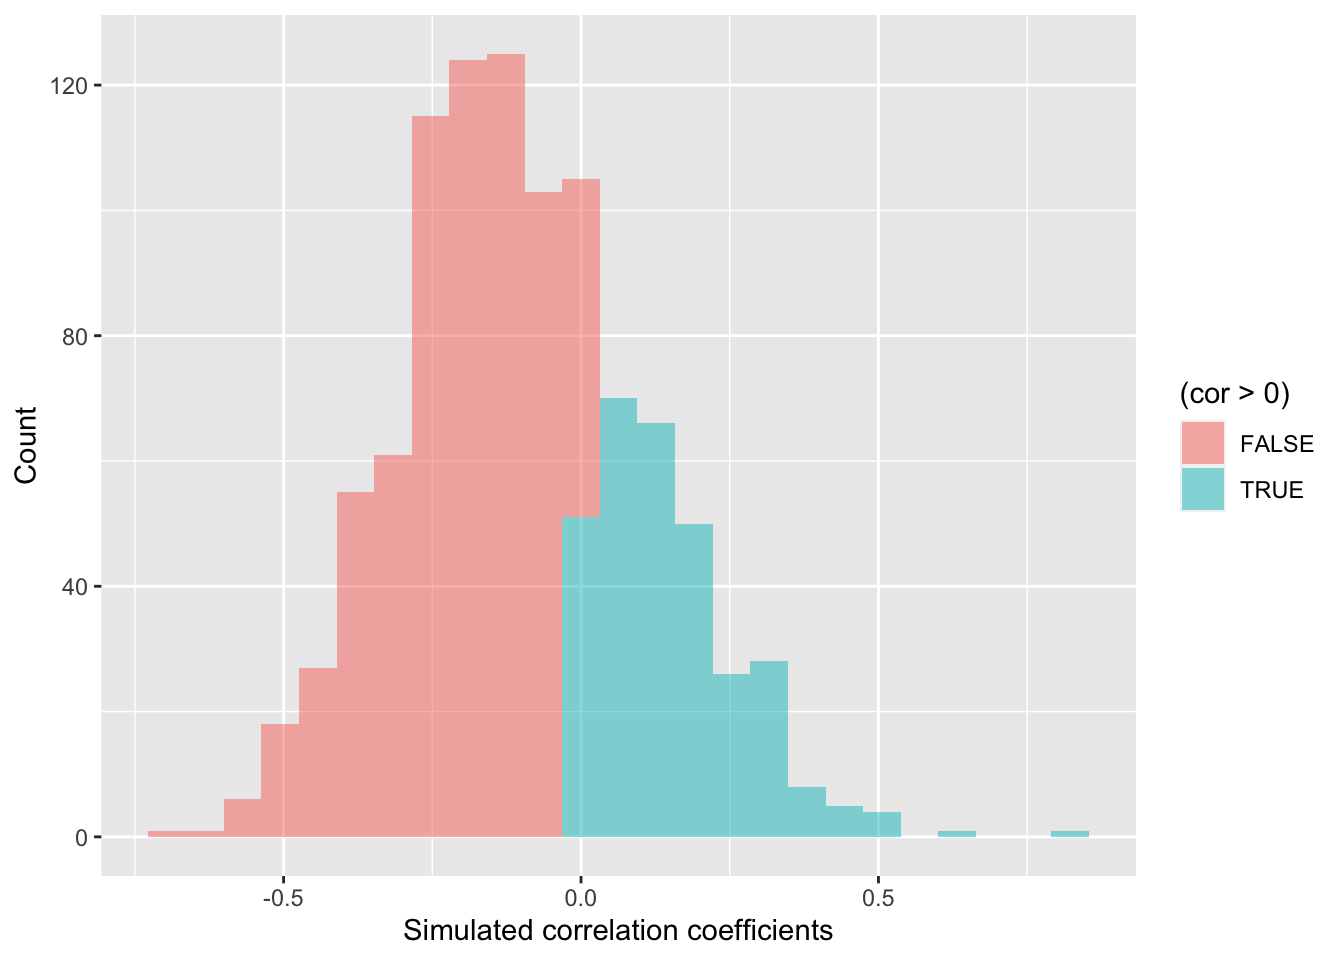
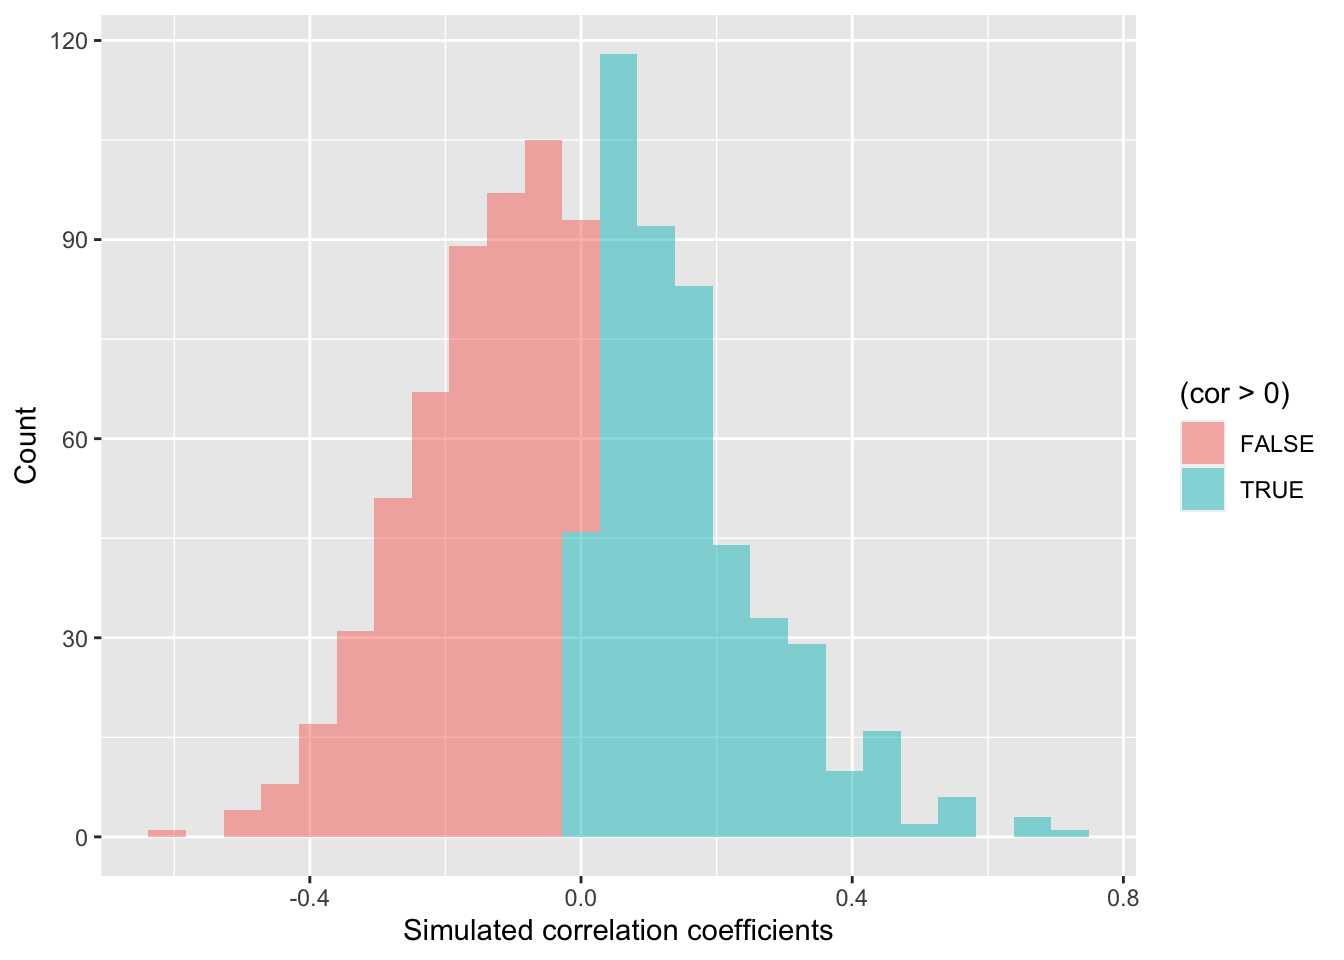
fixing soil lab calcs

diff --git a/docs/soil.html b/docs/soil.html
@@ -9,12 +9,12 @@
 <meta http-equiv="X-UA-Compatible" content="IE=EDGE" />
 
 
+<meta name="author" content="" />
 
-<meta name="date" content="2021-10-26" />
+<meta name="date" content="2021-10-27" />
 
 <title>Soil science analyses</title>
 
-<script src="site_libs/header-attrs-2.9/header-attrs.js"></script>
 <script src="site_libs/jquery-1.11.3/jquery.min.js"></script>
 <meta name="viewport" content="width=device-width, initial-scale=1" />
 <link href="site_libs/bootstrap-3.3.5/css/flatly.min.css" rel="stylesheet" />
@@ -311,15 +311,14 @@ $(document).ready(function () {
 
 
 <h1 class="title toc-ignore">Soil science analyses</h1>
-<h4 class="author"></h4>
-<h4 class="date">2021-10-26</h4>
+<h4 class="date">2021-10-27</h4>
 
 </div>
 
 
 <div id="overview" class="section level1">
 <h1>Overview</h1>
-<p>This page provides a demonstration on using <code>R</code> and shuffling our data to analyze your soil science hypotheses to generate figures and results for your poster presentation. You are welcome to either follow along with the text and copy-paste the code into the console <strong>or</strong> read through and then copy the whole script into a new <code>R</code> script in <a href="https://rstudio.cloud/spaces/170230">Rstudio.cloud</a>. <strong>Please make sure that you start a new project.</strong> Do <strong>not</strong> continue using the projects from the Air Quality Lab.</p>
+<p>This page provides a demonstration on using <code>R</code> and shuffling our data to analyze your soil science hypotheses to generate figures and results for your poster presentation. You are welcome to either follow along with the text and copy-paste the code into the console <strong>or</strong> read through and then copy the whole script into a new <code>R</code> script in <a href="https://rstudio.cloud/spaces/170230/project/3124212">Rstudio.cloud</a>. <strong>Please make sure that you start a new project using that link.</strong> Do <strong>not</strong> continue using the projects from the Air Quality Lab.</p>
 <p>This table below shows the hypotheses for each group:</p>
 <table>
 <colgroup>
@@ -410,7 +409,7 @@ soilDF &lt;- soilDF %&gt;% # take soilDF object and feed it into --&gt;
   mutate(SoilDensity = ( (ClodWeight1dip - (ClodNMinus1/NumAddedDips)) * (1 - (ClodWeightNdips-DriedWt)/ClodWeightNdips) - RockWeightG)/ClodVolumeInmL ) # create SoilDensity variable from columns in the data following Caspi et al. 2019
 
 soilDF &lt;- soilDF %&gt;%
-  mutate(soilC = SoilDensity * 10^6 * Cperc / 10^3) # create SoilDensity variable, which has these units: kg C/m3
+  mutate(soilC = SoilDensity * 10^5 * Cperc/100 * 1/10^3) # create SoilDensity variable, which has these units: kg C/m2 at a depth of 10cm
 
 ### Display data
 # View(soilDF) # open a spreadsheet viewer
@@ -425,11 +424,11 @@ soilDF &lt;- soilDF %&gt;%
 tapply(soilDF$SoilDensity, soilDF$PlantComm, summary) </code></pre>
 <pre><code>## $CHAP
 ##    Min. 1st Qu.  Median    Mean 3rd Qu.    Max. 
-##  0.4531  0.8578  1.0519  0.9525  1.1404  1.2285 
+##  0.4531  0.8578  0.9913  0.9292  1.1147  1.1691 
 ## 
 ## $CSS
-##    Min. 1st Qu.  Median    Mean 3rd Qu.    Max.    NA&#39;s 
-##  0.6542  0.9081  1.0767  1.0948  1.3602  1.4286       1</code></pre>
+##    Min. 1st Qu.  Median    Mean 3rd Qu.    Max. 
+##  0.5908  0.8984  1.0682  1.0580  1.3530  1.4286</code></pre>
 <pre class="r"><code>  # use PlantComm as the grouping variable
   # for SoilDensity and then summarize SoilDensity
   # for each PlantComm(unity)</code></pre>
@@ -470,12 +469,12 @@ gf_point(SoilDensity~Species,        # plot SoilDensity against plant Species
 <p>Let’s say I am interested in determining <code>if Coastal Sage Scrub (CSS) plants tend to have higher soil density than Chaparral (CHAP) plants</code>. This sounds like I want to see if there is a clear difference in the mean values of <code>SoilDensity</code> for the CSS plants versus the CHAP plants. We can start by calculating the mean difference we observe.</p>
 <pre class="r"><code>mean( SoilDensity ~ PlantComm, data = soilDF , na.rm=T) # show mean SoilDensity values for the plant communities and remove missing data</code></pre>
 <pre><code>##      CHAP       CSS 
-## 0.9525158 1.0947768</code></pre>
+## 0.9291509 1.0580391</code></pre>
 <pre class="r"><code>obs_diff &lt;- diff( mean( SoilDensity ~ PlantComm, data = soilDF , na.rm=T)) # calculate the difference between the means and store in a variable called &quot;obs_diff&quot;
 obs_diff # display the value of obs_diff</code></pre>
 <pre><code>##       CSS 
-## 0.1422611</code></pre>
-<p>OK, so the mean difference in mean soil density between CSS and CHAP is 0.14. Are the plant communities meaningfully different in terms of soil density though? Our null hypothesis would be that there is no difference in soil density between the plant communities.</p>
+## 0.1288881</code></pre>
+<p>OK, so the mean difference in mean soil density between CSS and CHAP is 0.13. Are the plant communities meaningfully different in terms of soil density though? Our null hypothesis would be that there is no difference in soil density between the plant communities.</p>
 <p>Logically, if there is a meaningful difference, then if we shuffle our data around, that should lead to different results than what we see. That is one way to <em>simulate</em> statistics to test the null hypothesis. And specifically, in this case, we would expect to see our observed difference is much larger than most of the simulated values.</p>
 <p>What does simulating our data look like?</p>
 <p>Well, here is what the data look like initially:</p>
@@ -483,48 +482,48 @@ obs_diff # display the value of obs_diff</code></pre>
 <pre><code>## # A tibble: 28 x 7
 ##    SampleID Species Group CSS   PlantComm SoilDensity soilC
 ##    &lt;chr&gt;    &lt;chr&gt;   &lt;dbl&gt; &lt;fct&gt; &lt;chr&gt;           &lt;dbl&gt; &lt;dbl&gt;
-##  1 Artcal1  Artcal      1 1     CSS             1.33  2197.
-##  2 Mallau1  Mallau      1 0     CHAP            1.08  2644.
-##  3 Salapi1  Salapi      1 1     CSS             1.39  2371.
-##  4 Samnig1  Samnig      1 0     CHAP            0.852  801.
-##  5 Artcal2  Artcal      2 1     CSS             0.946 7258.
-##  6 Mallau2  Mallau      2 0     CHAP            0.473 2054.
-##  7 Salapi2  Salapi      2 1     CSS             1.06  1876.
-##  8 Samnig2  Samnig      2 0     CHAP            1.16  2190.
-##  9 Artcal3  Artcal      3 1     CSS             0.694 1575.
-## 10 Mallau3  Mallau      3 0     CHAP            0.453 9470.
+##  1 Artcal1  Artcal      1 1     CSS             1.33  2.20 
+##  2 Mallau1  Mallau      1 0     CHAP            1.08  2.64 
+##  3 Salapi1  Salapi      1 1     CSS             1.39  2.37 
+##  4 Samnig1  Samnig      1 0     CHAP            0.852 0.801
+##  5 Artcal2  Artcal      2 1     CSS             0.946 7.26 
+##  6 Mallau2  Mallau      2 0     CHAP            0.473 2.05 
+##  7 Salapi2  Salapi      2 1     CSS             1.06  1.88 
+##  8 Samnig2  Samnig      2 0     CHAP            1.16  2.19 
+##  9 Artcal3  Artcal      3 1     CSS             0.691 1.57 
+## 10 Mallau3  Mallau      3 0     CHAP            0.453 9.47 
 ## # … with 18 more rows</code></pre>
 <p>Here is what it looks like after we’ve “shuffled” it once by randomizing the <code>PlantComm</code> assignments. This is like taking a deck of cards with different <code>SoilDensity</code> or <code>SoilC</code>(arbon) values, and being able to change their color and suite (in this case, plant community associated with that card).</p>
 <pre class="r"><code>resample(soilDF[,c(1:4,19:21)],groups=PlantComm,shuffled=c(&quot;SoilDensity&quot;,&quot;soilC&quot;))</code></pre>
 <pre><code>## # A tibble: 28 x 8
 ##    SampleID Species Group CSS   PlantComm SoilDensity soilC orig.id 
 ##    &lt;chr&gt;    &lt;chr&gt;   &lt;dbl&gt; &lt;fct&gt; &lt;chr&gt;           &lt;dbl&gt; &lt;dbl&gt; &lt;chr&gt;   
-##  1 Mallau3  Mallau      3 0     CHAP            0.453  801. 10.10.4 
-##  2 Samnig2  Samnig      2 0     CHAP            0.875 2644. 8.14.2  
-##  3 Mallau7  Mallau      7 0     CHAP            1.16  1992. 26.8.20 
-##  4 Mallau3  Mallau      3 0     CHAP            0.453 2512. 10.10.14
-##  5 Samnig5  Samnig      5 0     CHAP            1.13  2723. 20.26.24
-##  6 Mallau1  Mallau      1 0     CHAP            0.453 2512. 2.10.26 
-##  7 Mallau7  Mallau      7 0     CHAP            1.13  6636. 26.26.12
-##  8 Samnig1  Samnig      1 0     CHAP            0.852  554. 4.4.22  
-##  9 Samnig3  Samnig      3 0     CHAP            1.14  2644. 12.20.2 
-## 10 Mallau4  Mallau      4 0     CHAP            1.08  2512. 14.2.26 
+##  1 Mallau5  Mallau      5 0     CHAP            1.13  2.19  18.26.8 
+##  2 Mallau2  Mallau      2 0     CHAP            1.17  2.48  6.18.18 
+##  3 Samnig4  Samnig      4 0     CHAP            0.716 2.48  16.12.18
+##  4 Mallau1  Mallau      1 0     CHAP            1.08  6.64  2.2.12  
+##  5 Samnig2  Samnig      2 0     CHAP            1.16  9.47  8.8.10  
+##  6 Mallau7  Mallau      7 0     CHAP            0.453 2.47  26.10.16
+##  7 Mallau1  Mallau      1 0     CHAP            0.852 2.64  2.4.2   
+##  8 Samnig3  Samnig      3 0     CHAP            1.08  0.801 12.24.4 
+##  9 Samnig1  Samnig      1 0     CHAP            0.852 2.51  4.4.26  
+## 10 Samnig2  Samnig      2 0     CHAP            1.16  2.05  8.8.6   
 ## # … with 18 more rows</code></pre>
 <p>We can repeat that procedure again and see how the data shifts when we do another shuffle.</p>
 <pre class="r"><code>resample(soilDF[,c(1:4,19:21)],groups=PlantComm,shuffled=c(&quot;SoilDensity&quot;,&quot;soilC&quot;))</code></pre>
 <pre><code>## # A tibble: 28 x 8
 ##    SampleID Species Group CSS   PlantComm SoilDensity soilC orig.id 
 ##    &lt;chr&gt;    &lt;chr&gt;   &lt;dbl&gt; &lt;fct&gt; &lt;chr&gt;           &lt;dbl&gt; &lt;dbl&gt; &lt;chr&gt;   
-##  1 Mallau4  Mallau      4 0     CHAP            1.03  6636. 14.16.12
-##  2 Samnig1  Samnig      1 0     CHAP            1.14  2644. 4.20.2  
-##  3 Samnig6  Samnig      6 0     CHAP            1.17  2466. 24.18.16
-##  4 Mallau1  Mallau      1 0     CHAP            1.08  4582. 2.2.28  
-##  5 Mallau2  Mallau      2 0     CHAP            1.08  2644. 6.24.2  
-##  6 Mallau1  Mallau      1 0     CHAP            0.852 2054. 2.4.6   
-##  7 Samnig5  Samnig      5 0     CHAP            0.716 2512. 20.12.14
-##  8 Mallau1  Mallau      1 0     CHAP            0.473 2054. 2.6.6   
-##  9 Mallau5  Mallau      5 0     CHAP            1.08  2723. 18.2.24 
-## 10 Mallau2  Mallau      2 0     CHAP            1.08  2644. 6.2.2   
+##  1 Mallau1  Mallau      1 0     CHAP            1.03  2.05  2.16.6  
+##  2 Samnig6  Samnig      6 0     CHAP            0.716 2.05  24.12.6 
+##  3 Mallau5  Mallau      5 0     CHAP            0.852 0.801 18.4.4  
+##  4 Samnig5  Samnig      5 0     CHAP            0.716 2.64  20.12.2 
+##  5 Mallau2  Mallau      2 0     CHAP            1.14  1.99  6.20.20 
+##  6 Samnig3  Samnig      3 0     CHAP            1.08  2.51  12.2.14 
+##  7 Mallau2  Mallau      2 0     CHAP            1.08  2.72  6.24.24 
+##  8 Samnig7  Samnig      7 0     CHAP            0.901 2.48  28.28.18
+##  9 Mallau1  Mallau      1 0     CHAP            1.08  2.47  2.2.16  
+## 10 Mallau4  Mallau      4 0     CHAP            0.473 3.36  14.6.28 
 ## # … with 18 more rows</code></pre>
 <p>Let’s shuffle the data and see what that means for the distribution of mean <code>SoilDensity</code> differences between <code>CSS</code> and <code>CHAP</code>.</p>
 <pre class="r"><code>### Create random differences by shuffling the data
@@ -534,13 +533,13 @@ names(randomizing_diffs)[1] &lt;- &quot;DiffMeans&quot; # change the name of the
 
 # View first few rows of data
 head(randomizing_diffs)</code></pre>
-<pre><code>##     DiffMeans
-## 1 -0.01153524
-## 2  0.03609562
-## 3  0.09786906
-## 4  0.02516840
-## 5 -0.04835636
-## 6  0.01246625</code></pre>
+<pre><code>##      DiffMeans
+## 1  0.036459588
+## 2 -0.078961624
+## 3  0.008728901
+## 4 -0.031539682
+## 5 -0.081536007
+## 6 -0.086841344</code></pre>
 <p>Now we can visualize the distribution of simulated differences in mean soil density and our observed difference between CSS and CHAP.</p>
 <pre class="r"><code>gf_histogram(~ DiffMeans, fill = ~ (DiffMeans &gt;= obs_diff),
              data = randomizing_diffs,
@@ -551,7 +550,7 @@ head(randomizing_diffs)</code></pre>
 <pre class="r"><code># What proportion of simulated values were larger than our observed difference
 prop( ~ DiffMeans &gt;= 0.142, data = randomizing_diffs) # 0.142 was the observed difference value - see obs_diff</code></pre>
 <pre><code>## prop_TRUE 
-##      0.09</code></pre>
+##     0.078</code></pre>
 </div>
 <div id="calculating-correlation-coefficients" class="section level2">
 <h2>2: Calculating correlation coefficients</h2>
@@ -559,7 +558,7 @@ prop( ~ DiffMeans &gt;= 0.142, data = randomizing_diffs) # 0.142 was the observe
 <pre class="r"><code>### Calculate observed correlation
 obs_cor &lt;- cor(BacterialPerc ~ SoilDensity, data=soilDF, use=&quot;complete.obs&quot;) # store observed correlation in obs_cor of BacterialPerc vs. SoilDensity
 obs_cor # print out value</code></pre>
-<pre><code>## [1] -0.110122</code></pre>
+<pre><code>## [1] -0.01111519</code></pre>
 <p>Let’s say that I’m interested in determining if the percentage of bacteria is negatively correlated with soil density. Our null hypothesis could be that the correlation coefficient is actually 0. As before though, how do I know that my correlation coefficient of 0 is significantly different from 0? We can tackle this question by simulating a ton of correlation coefficient values from our data by shuffling it!</p>
 <p>In this case, the shuffling here lets us estimate the variation in the correlation coefficient given our data. So we are curious now if the distribution of simulated values does or does not include 0 (that is, is it clearly <span class="math inline">\(&lt; 0\)</span> or <span class="math inline">\(&gt; 0\)</span>?).</p>
 <pre class="r"><code>### Calculate correlation coefs for shuffled data
@@ -574,7 +573,7 @@ randomizing_cor &lt;- do(1000) * cor(BacterialPerc ~ SoilDensity,
 <pre class="r"><code>quantiles_cor &lt;- qdata( ~ cor, p = c(0.025, 0.975), data=randomizing_cor) # calculate the 2.5% and 97.5% quantiles in our simulated correlation coefficient data (note that 97.5-2.5 = 95!)
 quantiles_cor # display the quantiles</code></pre>
 <pre><code>##       2.5%      97.5% 
-## -0.4743900  0.3224147</code></pre>
+## -0.3709577  0.4270110</code></pre>
 <p>The values above give us a 95% confidence interval estimate for our correlation coefficient!</p>
 <p>Do we clearly see that our correlation coefficient distribution does or doesn’t include 0?</p>
 <pre class="r"><code>gf_histogram(~ cor, fill = ~ (cor &gt; 0),
@@ -603,18 +602,17 @@ lm_mod # print object</code></pre>
 ## 
 ## Coefficients:
 ##   (Intercept)  BacterialPerc    ClodNMinus1  
-##     1.2053175     -0.0006693     -0.0675615</code></pre>
+##      1.024700       0.001395      -0.072026</code></pre>
 <p>We can also shuffle our data to estimate the variation in the coefficient values. Our null is that the coefficient estimates are equal to 0. That is, there is no relationship between soil density and bacterial percentage or resin dip weight. If the simulated coefficient estimates have an interval that doesn’t cross 0 (go from negative to positive), then that is evidence against the null hypothesis.</p>
 <pre class="r"><code>lm_boot &lt;- do(1000) * lm(SoilDensity ~ BacterialPerc + ClodNMinus1, data=resample(soilDF)) # shuffle our data 1000 times and re-run the linear model each time and store the outputs in lm_boot
 confint(lm_boot) # generate a 95% confidence interval from the simulated values for the linear regression coefficients</code></pre>
-<pre><code>##            name        lower        upper level     method      estimate
-## 1     Intercept  0.633837850  1.689834190  0.95 percentile  1.2053174729
-## 2 BacterialPerc -0.006766271  0.006567772  0.95 percentile -0.0006693034
-## 3   ClodNMinus1 -0.107204176 -0.015801288  0.95 percentile -0.0675614885
-## 4         sigma  0.148158481  0.253955642  0.95 percentile  0.2141484275
-## 5     r.squared  0.078894243  0.694114205  0.95 percentile  0.3986785408
-## 6             F  1.006867643 26.575928889  0.95 percentile  7.9560481623
-## 7         dendf 22.000000000 25.000000000  0.95 percentile 24.0000000000</code></pre>
+<pre><code>##            name        lower        upper level     method     estimate
+## 1     Intercept  0.504835299  1.467213918  0.95 percentile  1.024699637
+## 2 BacterialPerc -0.004383335  0.008219272  0.95 percentile  0.001395041
+## 3   ClodNMinus1 -0.112649542 -0.041981578  0.95 percentile -0.072025910
+## 4         sigma  0.150670210  0.255404364  0.95 percentile  0.215825625
+## 5     r.squared  0.121123016  0.681636132  0.95 percentile  0.408701398
+## 6             F  1.722695895 26.763263833  0.95 percentile  8.639911321</code></pre>
 <p>Based on the values above, as clod resin weight increases by one gram, soil density decreases by as much as 0.11 grams and as little as 0.015 grams. On the other hand, it looks like bacterial percentage does not have a clear directional effect on soil density.</p>
 </div>
 </div>
@@ -648,7 +646,7 @@ soilDF &lt;- soilDF %&gt;% # take soilDF object and feed it into --&gt;
   mutate(SoilDensity = ( (ClodWeight1dip - (ClodNMinus1/NumAddedDips)) * (1 - (ClodWeightNdips-DriedWt)/ClodWeightNdips) - RockWeightG)/ClodVolumeInmL ) # create SoilDensity variable from columns in the data following Caspi et al. 2019
 
 soilDF &lt;- soilDF %&gt;%
-  mutate(soilC = SoilDensity * 10^6 * Cperc / 10^3) # create SoilDensity variable, which has these units: kg C/m3
+  mutate(soilC = SoilDensity * 10^5 * Cperc/100 * 1/10^3) # create SoilDensity variable, which has these units: kg C/m2 at a depth of 10cm
 
 ### Display data
 View(soilDF) # open a spreadsheet viewer
